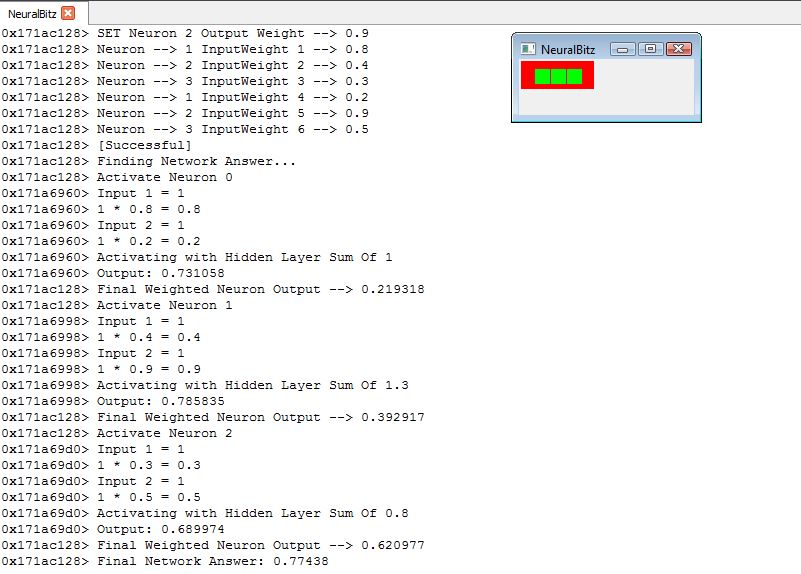
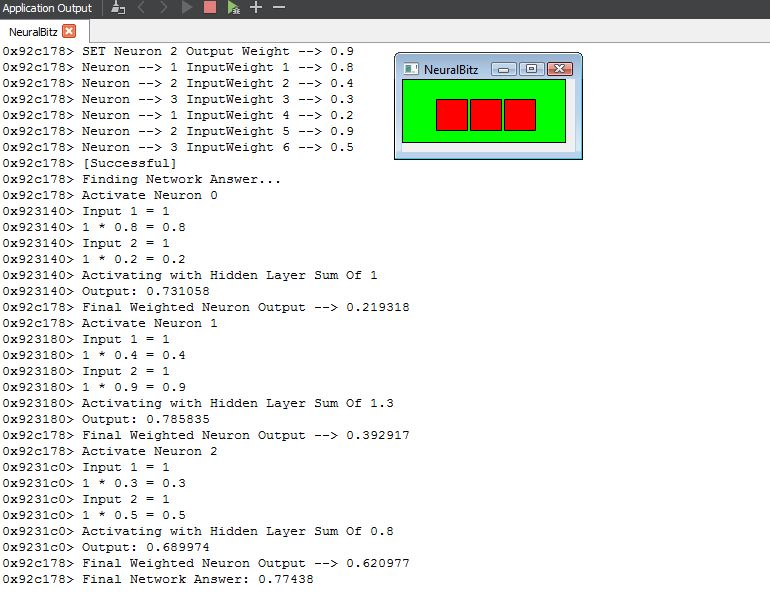
nicer gfx via Qwidgets

Changed region(s): [[0.0, 0.0, 1.0, 1.0]]

diff --git a/neuron.cpp b/neuron.cpp
@@ -1,4 +1,5 @@
 #include "neuron.h"
+#include "neuralbitznetwork.h"
 #include <iostream>
 #include <cmath>
 #include <QTime>
@@ -8,11 +9,14 @@
 
 neuron::neuron(int inputs, QWidget *parent, int sequence) : QWidget(parent) {
     //QTime::currentTime()
+    mParent = parent;
+    mHiddenLayerSum = NULL;
     std::cout<<"I am Neuron: "<<this<<" (Parent: "<<parent<<")"<<std::endl;
     std::cout<<"Inputs: "<<inputs<<std::endl;
 //    std::cout<<this<<"> S_Test: Sigmoid Of 1 is "<<sigmoid(1)<<std::endl;
 //    std::cout<<this<<"> D_Test: Derivative of Sigmoid(1.235) is "<<dSigmoid(1.235)<<std::endl;
-    mRect = new QRectF(16*sequence,10,15,15);
+    setGeometry(0,0,32,32);
+    mRect = new QRectF(this->x() + mParent->x(),this->y() + mParent->y(),this->width()-1,this->height()-1);
 }
 
 neuron::~neuron(){
@@ -26,8 +30,9 @@ void neuron::say(QString sayThis) {
 
 void neuron::paintEvent(QPaintEvent *) {
     QPainter painter(this);
-    painter.setPen(Qt::green);
-    painter.fillRect(*mRect,Qt::green);
+    painter.setPen(Qt::SolidLine);
+    painter.setBrush(Qt::red);
+    painter.drawRect(*mRect);
 }
 
 float neuron::findOutput() {
@@ -50,6 +55,10 @@ float neuron::findOutput() {
     retVal = output;
     say("Output: " + QString().setNum(getOutput()) );
     return retVal;
+}
+
+float neuron::getHiddenLayerSum() {
+    return mHiddenLayerSum;
 }
 
 void neuron::setExampleInputs() {

diff --git a/neuralbitznetwork.cpp b/neuralbitznetwork.cpp
@@ -14,23 +14,23 @@ neuralBitzNetwork::neuralBitzNetwork(int neurons, int inputs,QMainWindow *parent
     mNeuronNum = neurons;
     mInputNum = inputs;
     mInWeightPerNeuron = mInputNum;
+    setGeometry(0,0,164,64);
     std::cout<<"Network "<<this<<" Created... ( Parent: "<<parent<<" )"<<std::endl;
     std::cout<<this<<"> Creating "<<mNeuronNum<<" Neurons with "<<mInputNum<<" Inputs each."<<std::endl;
     for(int n=0;n<neurons;n++) {
-        mNeurons.append(new neuron(mInputNum,this,n+1));
+        mNeurons.append(new neuron(mInputNum,this,n));
+        mNeurons.at(n)->move(((n+1)*34),20);
     }
     say("Total Input Weights Needed: " + QString().setNum(neurons * inputs));
     say("Input Weights Per Neuron: " + QString().setNum(mInWeightPerNeuron));
-    mNetRect = new QRect(QPoint(2, 2), QSize(mNeuronNum * 24, mNeuronNum * 24));
-    myParent->setGeometry(128, 128, 128,64);
+    mNetRect = new QRectF(0,0,163,63);
 }
 
 void neuralBitzNetwork::paintEvent(QPaintEvent *) {
     QPainter painter(this);
-    painter.setPen(Qt::red);
-    painter.setFont(QFont("Arial", 30));
+    painter.setPen(Qt::SolidLine);
+    painter.setBrush(Qt::green);
     painter.drawRect(*mNetRect);
-    painter.fillRect(*mNetRect, QColor(255,0,0));
 }
 
 neuralBitzNetwork::~neuralBitzNetwork() {

diff --git a/neuralbitznetwork.h b/neuralbitznetwork.h
@@ -24,6 +24,7 @@ public:
     float findNetworkOutput();
     float getLastOutput();
     void paintEvent(QPaintEvent *);
+    int mNeuronNum;
 private:
     float sigmoid(float x);
     float dSigmoid(float x);
@@ -33,13 +34,13 @@ private:
     QList<float> mInputs;
     QList<float> mWeights;
     QList<neuron*> mNeurons;
-    int mNeuronNum;
+
     int mInputNum;
     int mWeightNum;
     int mInWeightPerNeuron;
     bool training;
     float mNetworkOutput;
-    QRect *mNetRect;
+    QRectF *mNetRect;
     QMainWindow *myParent;
 signals:
 

diff --git a/neuron.h b/neuron.h
@@ -25,6 +25,7 @@ public:
     void setExampleWeights(int whichExampleNode=0);
     float sigmoid(float x);
     void paintEvent(QPaintEvent *);
+    float getHiddenLayerSum();
 private:
     QRectF *mRect;
     float dSigmoid(float x);
@@ -33,7 +34,8 @@ private:
     float output;
     float outputWeight;
     void say(QString sayThis);
-
+    QWidget *mParent;
+    float mHiddenLayerSum;
 signals:
 
 public slots:

diff --git a/mainwindow.cpp b/mainwindow.cpp
@@ -8,6 +8,9 @@ MainWindow::MainWindow(QApplication *app, QWidget *parent) : QMainWindow(parent)
     myApp = app;
     std::cout<<"Parent Application: ("<<myApp<<")"<<std::endl;
     std::cout<<"Created Main Window...("<<this<<")"<<std::endl;
+    setGeometry(128, 128, 173,73);
+    updateGeometry();
+    update();
     myNet = new neuralBitzNetwork(3,2,this);
 
     //Example usage below
